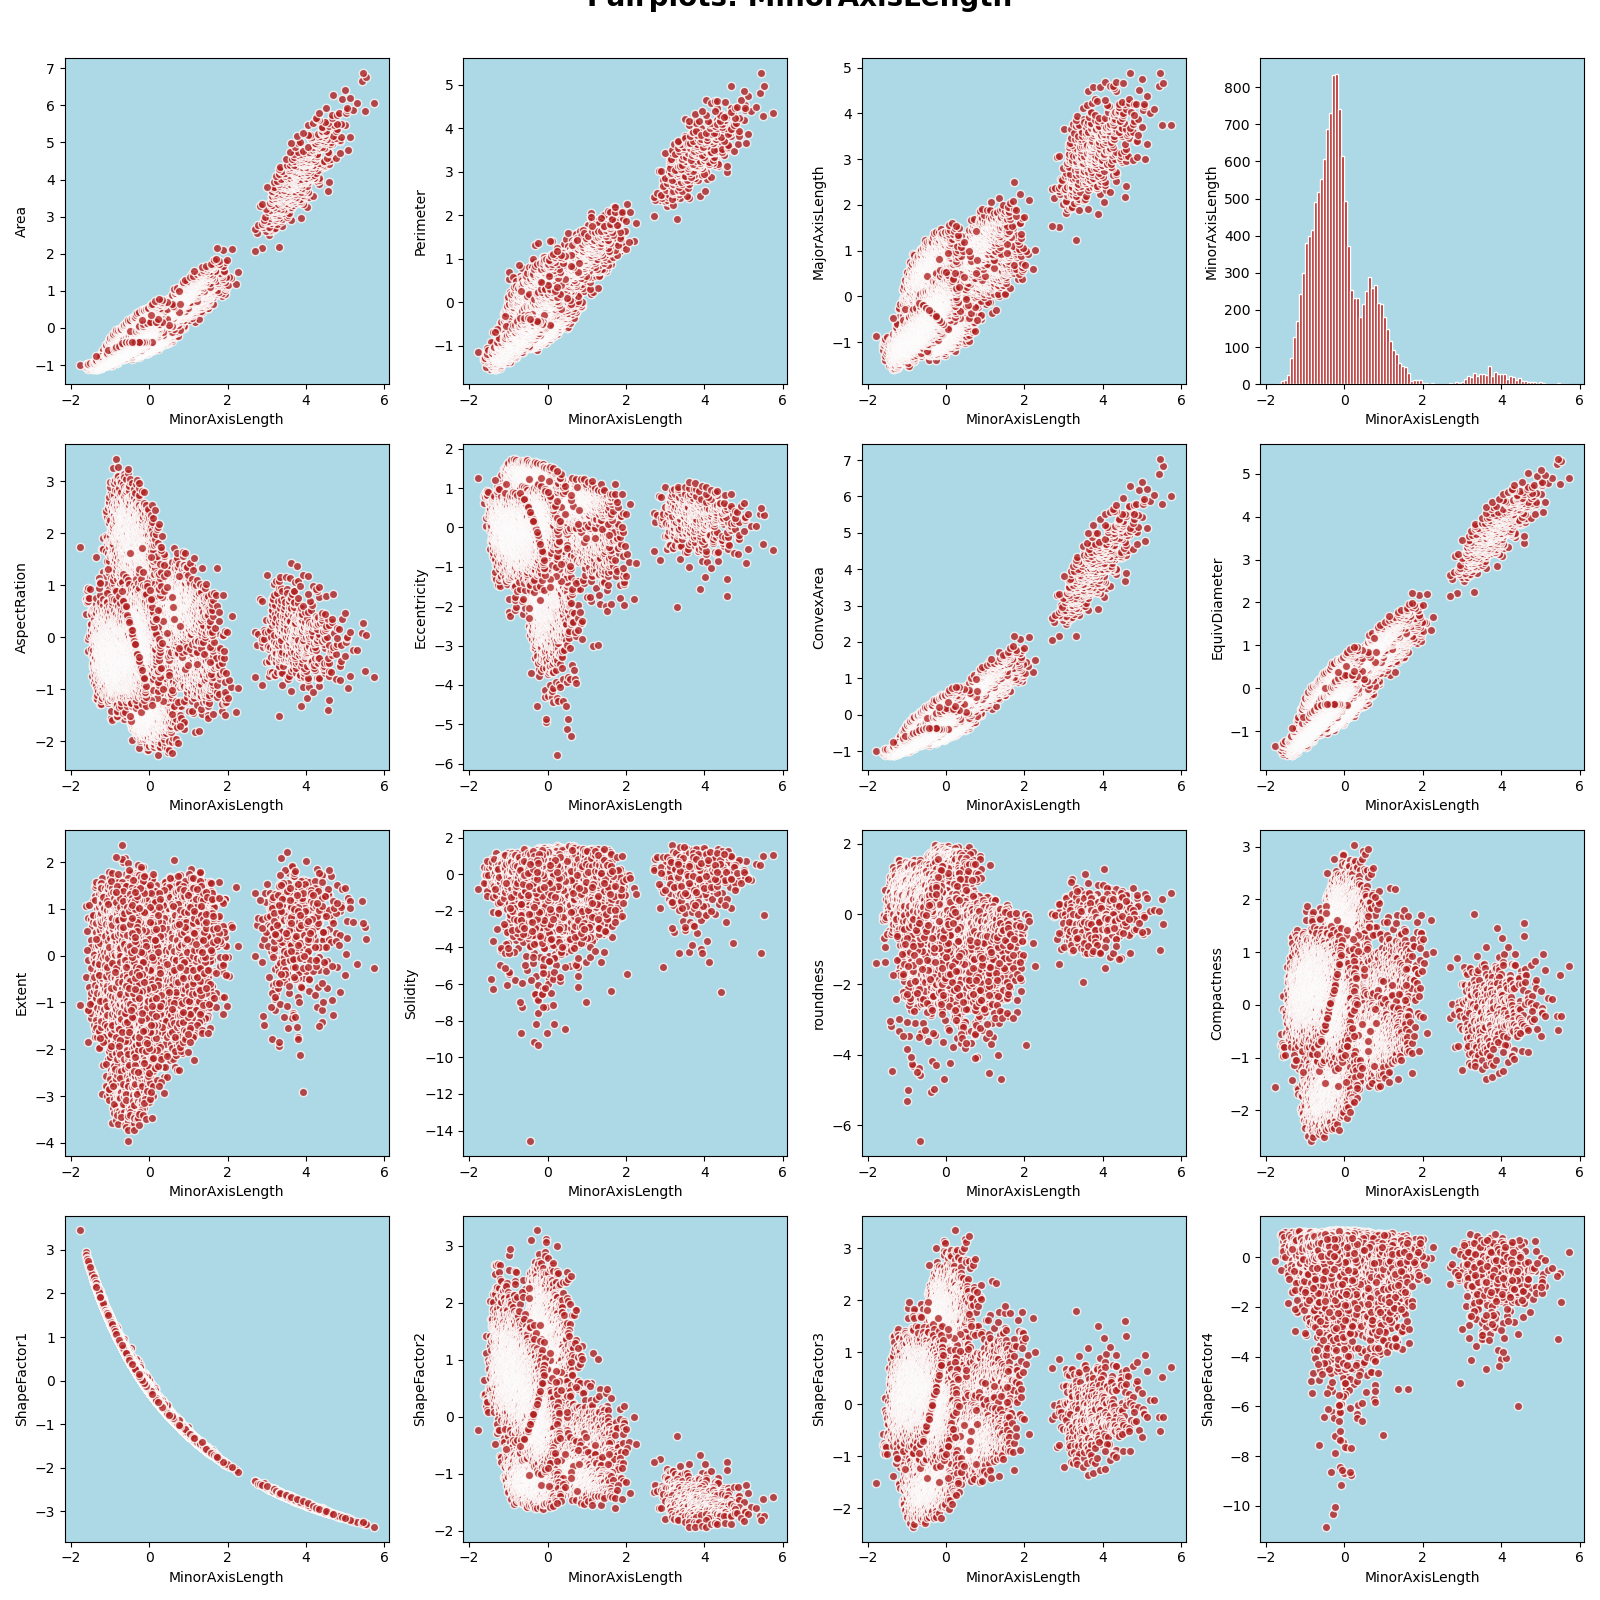
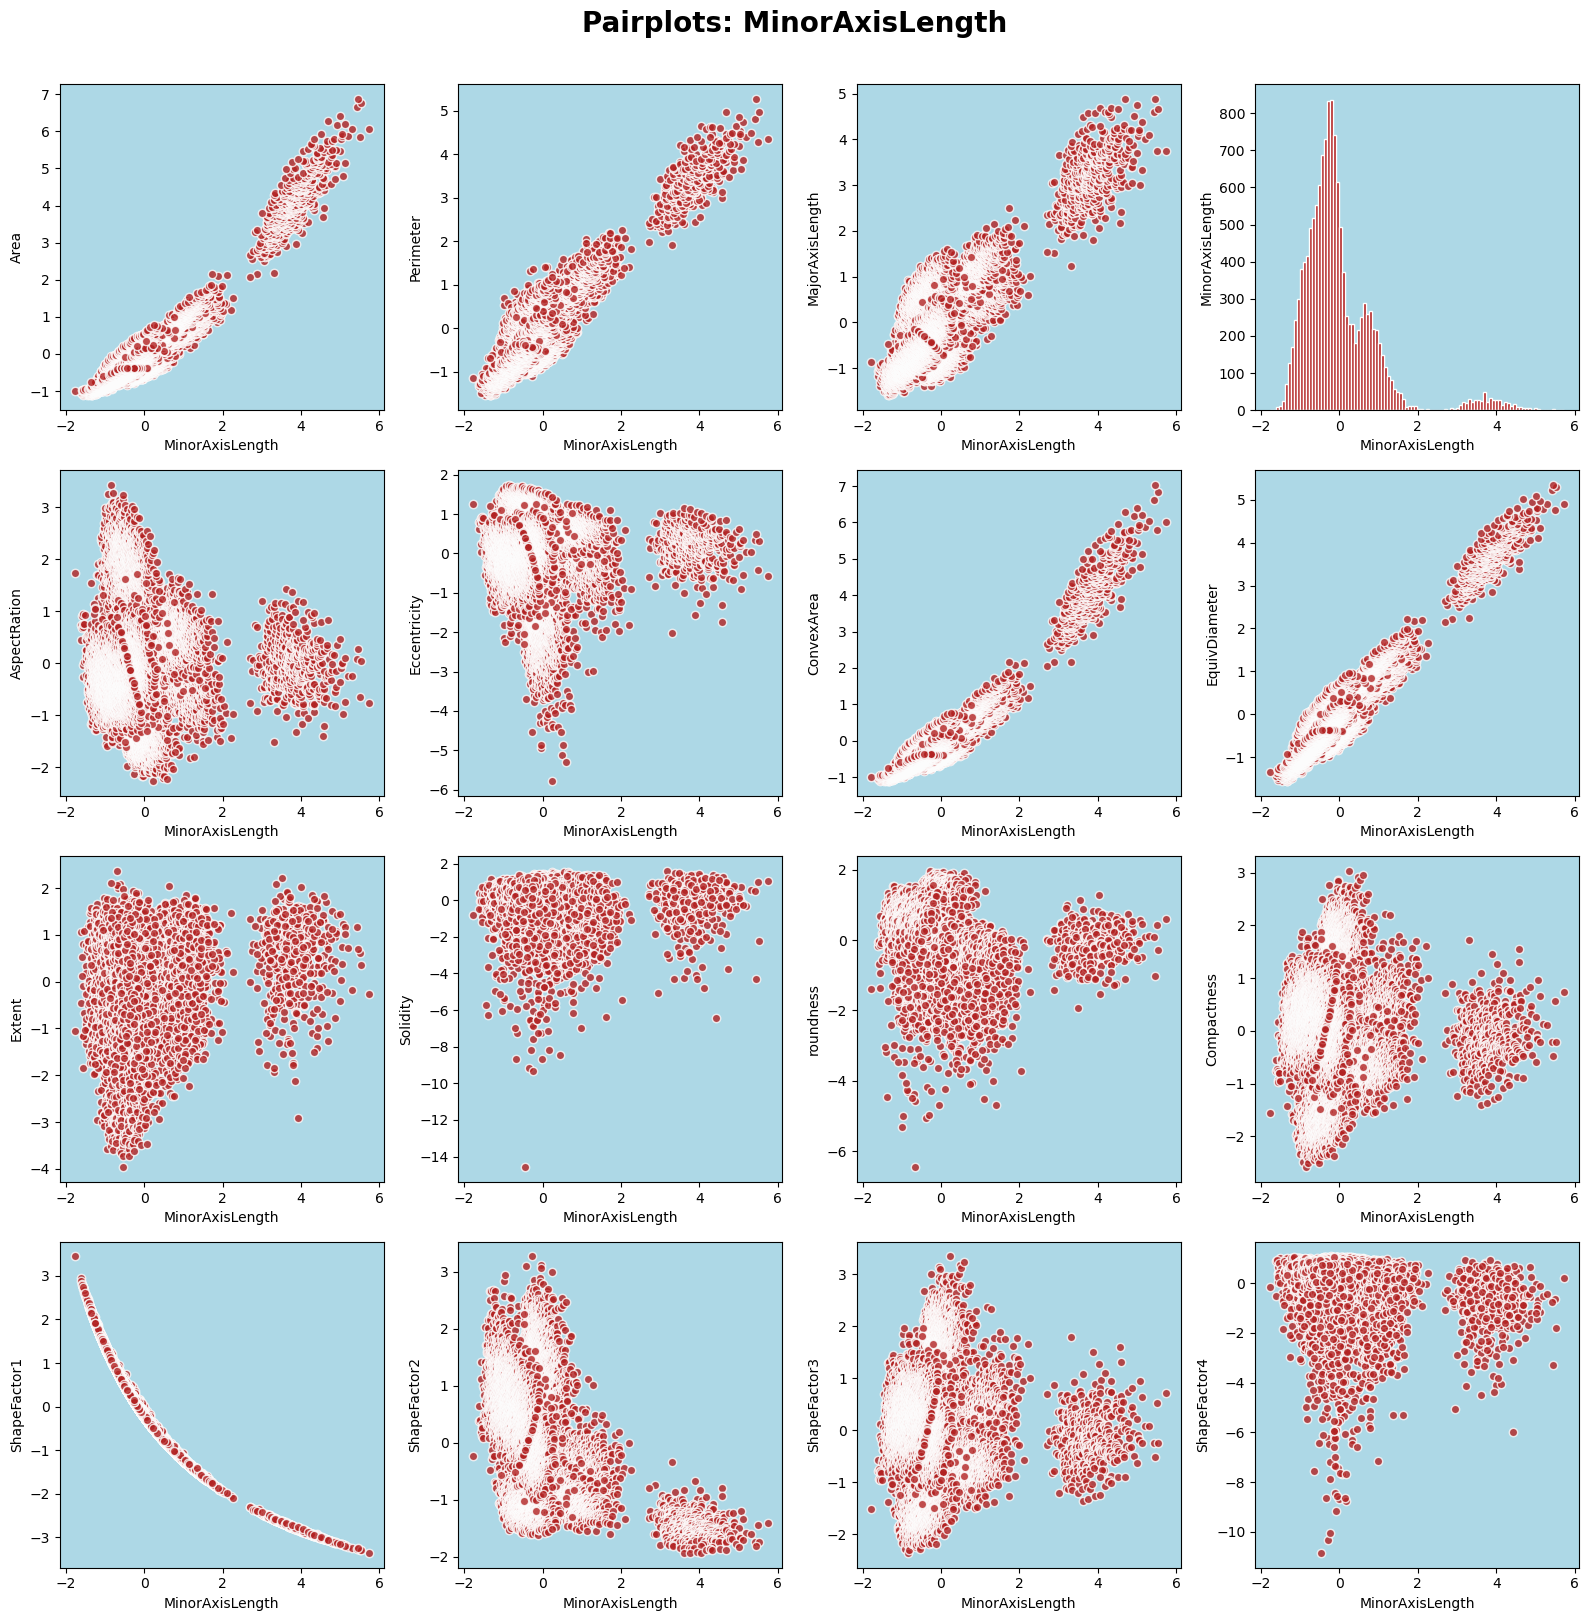
p2.6

Changed region(s): [[0.0, 0.0, 1.0, 1.0], [0.4934, 0.3438, 0.5551, 0.4062], [0.4934, 0.125, 0.5242, 0.1875]]

diff --git a/src/preprocessing_eda_utils.py b/src/preprocessing_eda_utils.py
@@ -185,5 +185,5 @@ def sub_divide_pairplot(trans_df):
         fig.suptitle(f'Pairplots: {pair[0].split("_")[2]}', weight = 'bold', fontsize = 20, y=1.01)
         plt.subplots_adjust(top=0.9)
         plt.tight_layout()
-        plt.savefig(f'../figs/pairplots_{pair[0].split("_")[2]}.png')
+        plt.savefig(f'../figs/pairplots_{pair[0].split("_")[2]}.png', bbox_inches = 'tight')
         plt.show();
